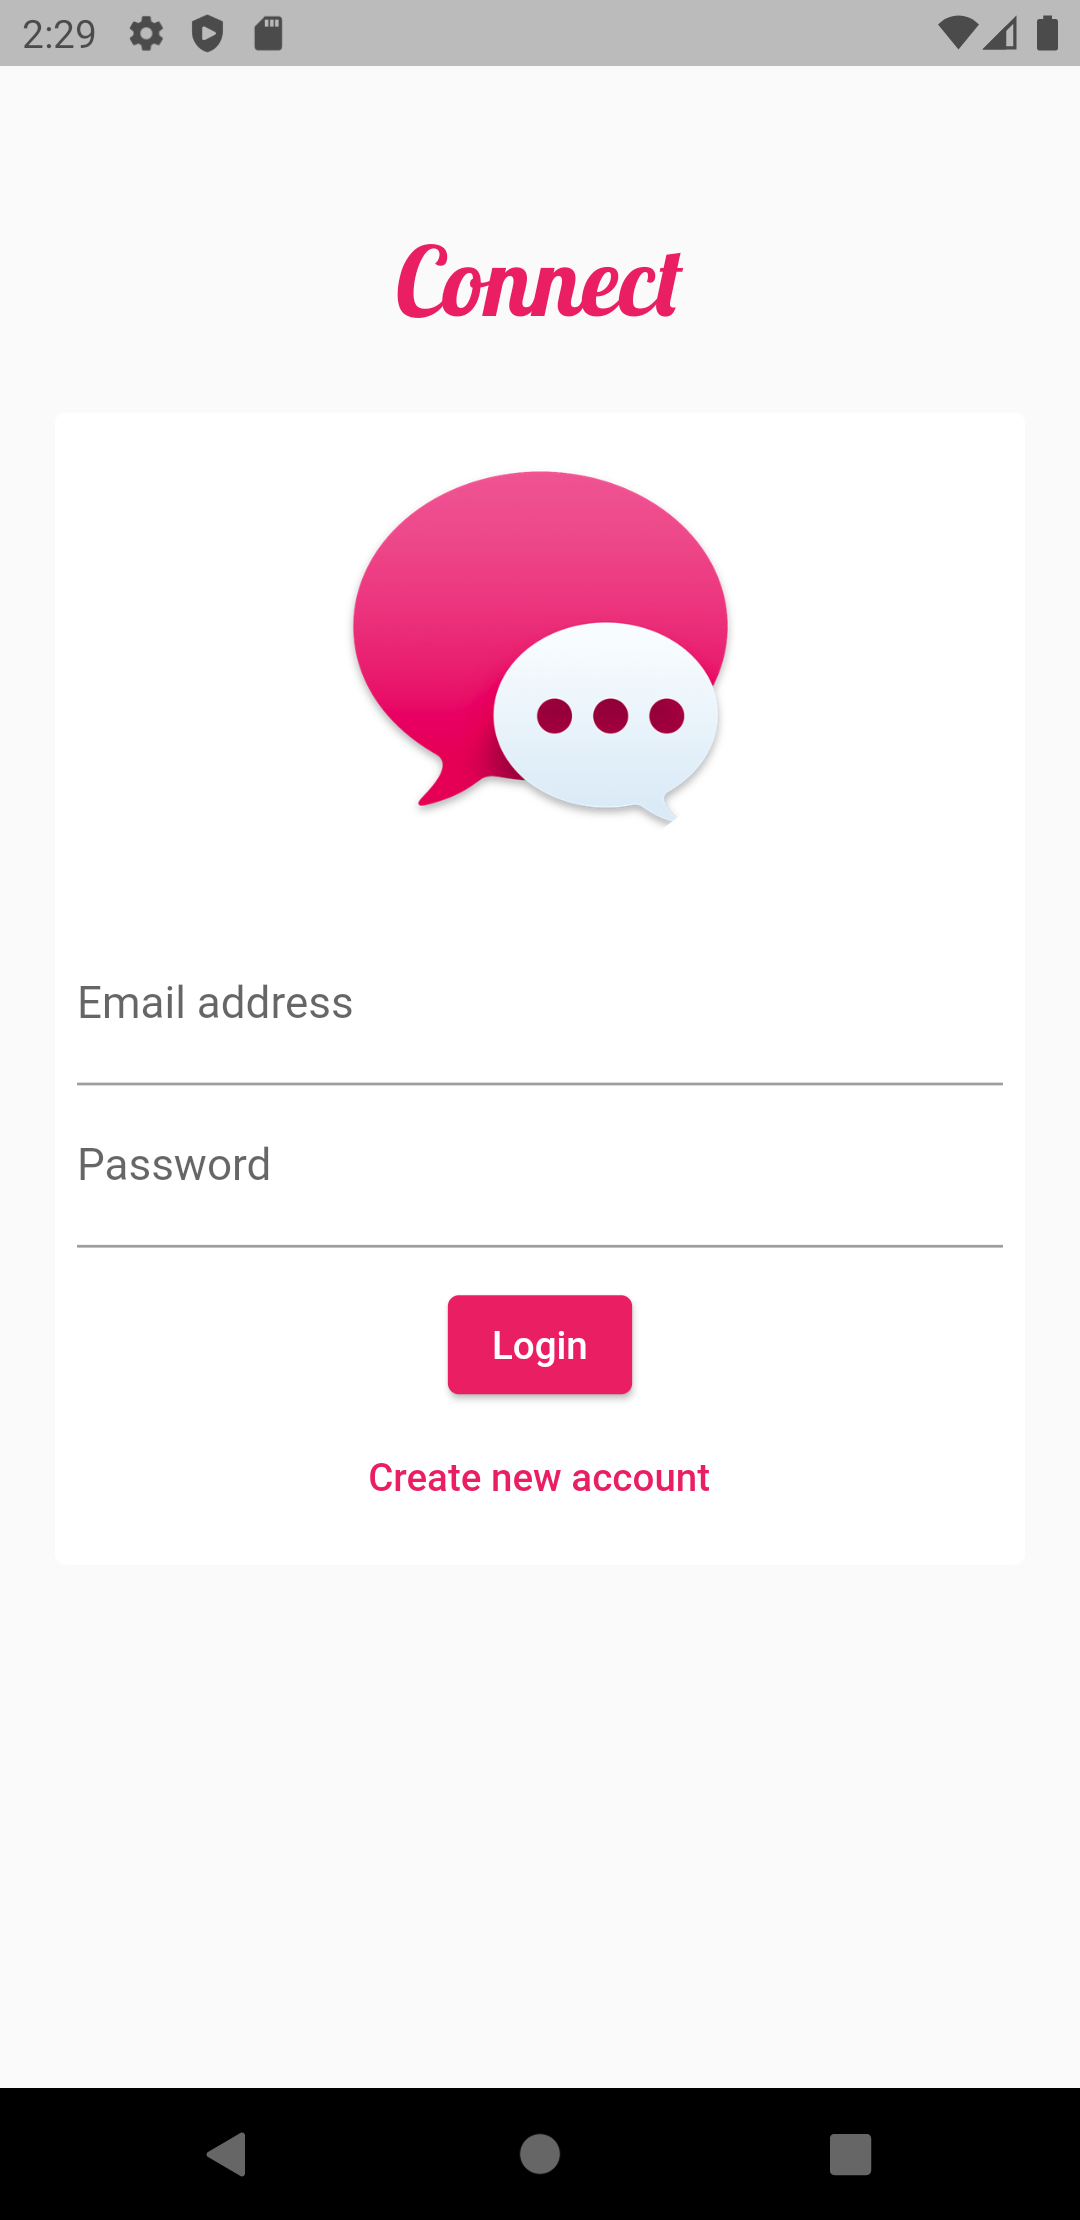
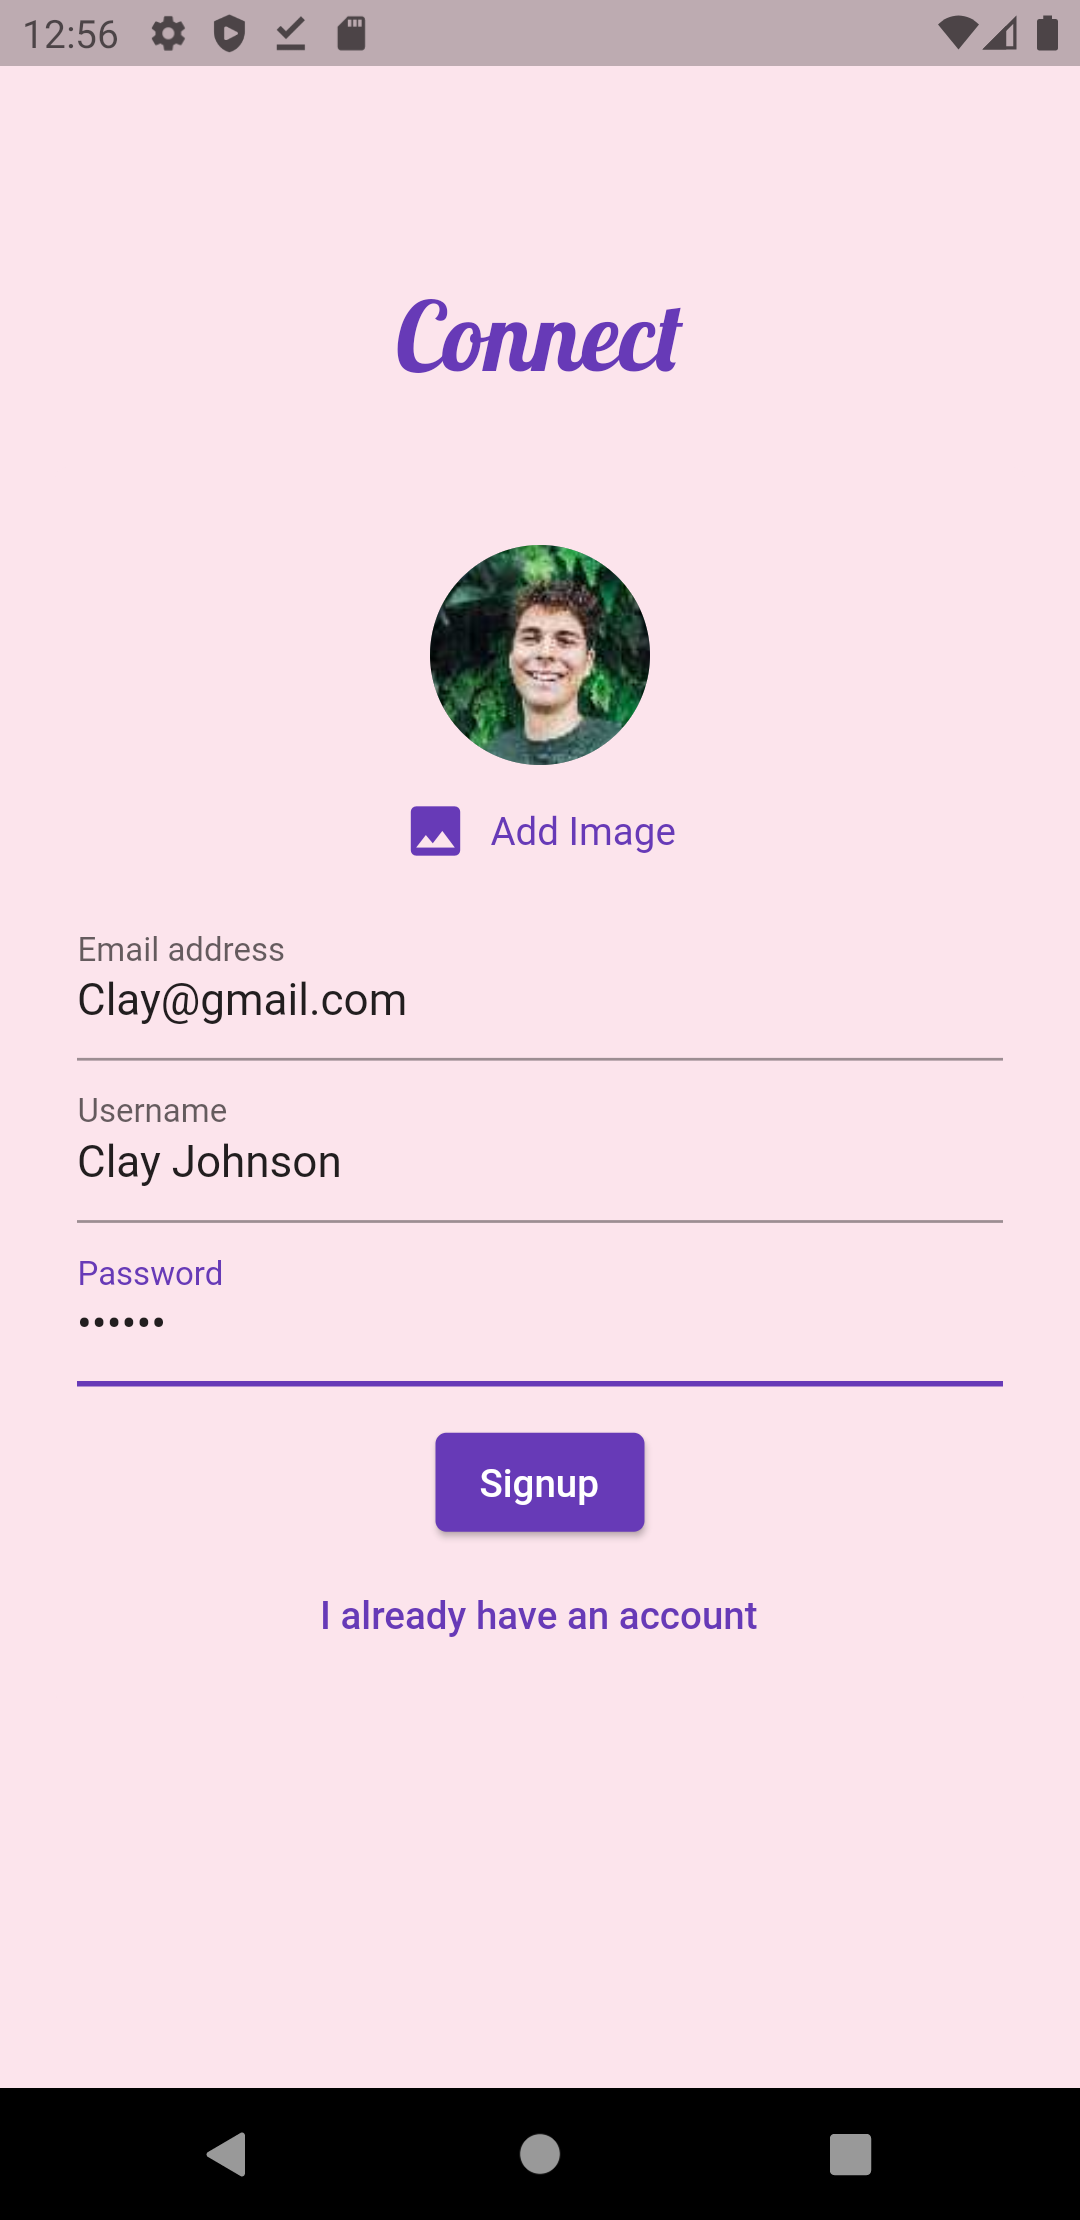
Working on notifications

diff --git a/lib/widgets/auth/auth_form.dart b/lib/widgets/auth/auth_form.dart
@@ -65,6 +65,7 @@ class _AuthformState extends State<Authform> {
   Widget build(BuildContext context) {
     return Center(
       child: Card(
+        shadowColor: Colors.pink.shade900,
         elevation: 0,
         margin: EdgeInsets.all(20),
         child: SingleChildScrollView(
@@ -79,10 +80,9 @@ class _AuthformState extends State<Authform> {
                       Container(
                         padding: EdgeInsets.all(20),
                         decoration: BoxDecoration(
-                          shape: BoxShape.circle,
                           image: DecorationImage(
                             fit: BoxFit.contain,
-                            image: AssetImage('assets/image/img3.jpg'),
+                            image: AssetImage('assets/image/img4.png'),
                           ),
                         ),
                         child: Opacity(

diff --git a/lib/main.dart b/lib/main.dart
@@ -1,5 +1,3 @@
-import 'dart:async';
-
 import 'package:flutter/services.dart'; // used here to connect to native code
 import 'package:flutter/material.dart';
 import 'package:firebase_core/firebase_core.dart';
@@ -20,16 +18,13 @@ class MyApp extends StatefulWidget {
 }
 
 class _MyAppState extends State<MyApp> {
-  static const platform = const MethodChannel('project.flutter.dev/battery');
-
   @override
   Widget build(BuildContext context) {
     return MaterialApp(
       title: 'Chat App',
       debugShowCheckedModeBanner: false,
       theme: ThemeData(
-        primarySwatch: Colors.pink,
-        backgroundColor: Colors.brown,
+        primarySwatch: Colors.deepPurple,
         accentColor: Colors.deepPurple,
         accentColorBrightness: Brightness.dark,
         buttonTheme: ButtonTheme.of(context).copyWith(

diff --git a/lib/screens/chat_screen.dart b/lib/screens/chat_screen.dart
@@ -8,7 +8,6 @@ class ChatScreen extends StatelessWidget {
   @override
   Widget build(BuildContext context) {
     return Scaffold(
-      backgroundColor: Colors.pink.shade50,
       appBar: AppBar(
         title: Text('Connect'),
         actions: [
@@ -52,8 +51,9 @@ class ChatScreen extends StatelessWidget {
             child: Center(
               child: CircleAvatar(
                 radius: 150,
+                foregroundColor: Colors.deepPurpleAccent,
                 backgroundColor: Theme.of(context).scaffoldBackgroundColor,
-                backgroundImage: AssetImage('assets/image/img3.jpg'),
+                backgroundImage: AssetImage('assets/image/img4.png'),
               ),
             ),
           ),

diff --git a/lib/screens/auth_screen.dart b/lib/screens/auth_screen.dart
@@ -89,15 +89,14 @@ class _AuthScreenState extends State<AuthScreen> {
   Widget build(BuildContext context) {
     return Scaffold(
       resizeToAvoidBottomInset: false,
-      appBar: AppBar(
-        centerTitle: true,
-        backgroundColor: Theme.of(context).scaffoldBackgroundColor,
-        elevation: 0,
-      ),
+
       // backgroundColor: Theme.of(context).primaryColor,
       body: SingleChildScrollView(
         child: Column(
           children: [
+            SizedBox(
+              height: 100,
+            ),
             SizedBox(
               height: 50,
               child: Text(

diff --git a/lib/widgets/chats/message_bubble.dart b/lib/widgets/chats/message_bubble.dart
@@ -4,7 +4,7 @@ class MessageBubble extends StatelessWidget {
   final String message;
   final String username;
   final String userImage;
-  bool isMe;
+  final bool isMe;
   final Key key;
 
   MessageBubble(this.message, this.username, this.userImage, this.isMe,
